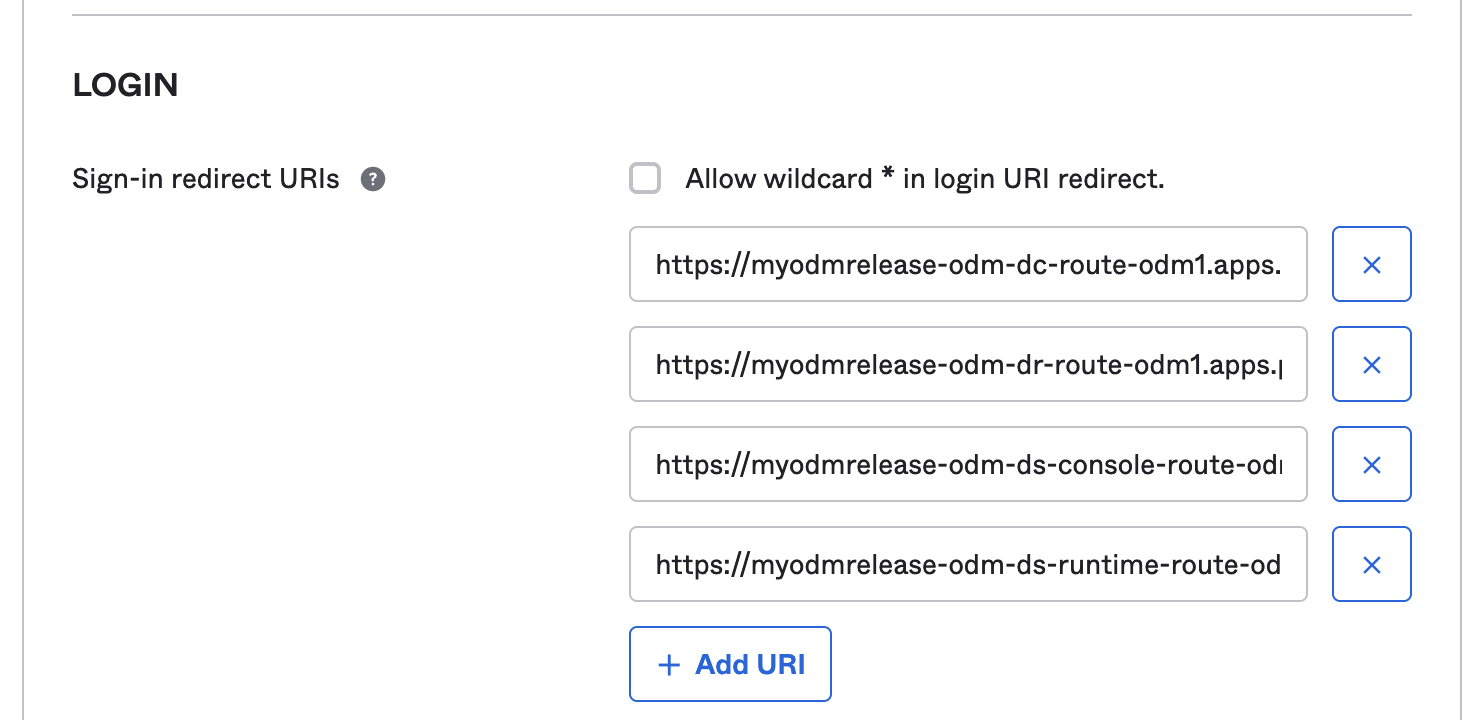
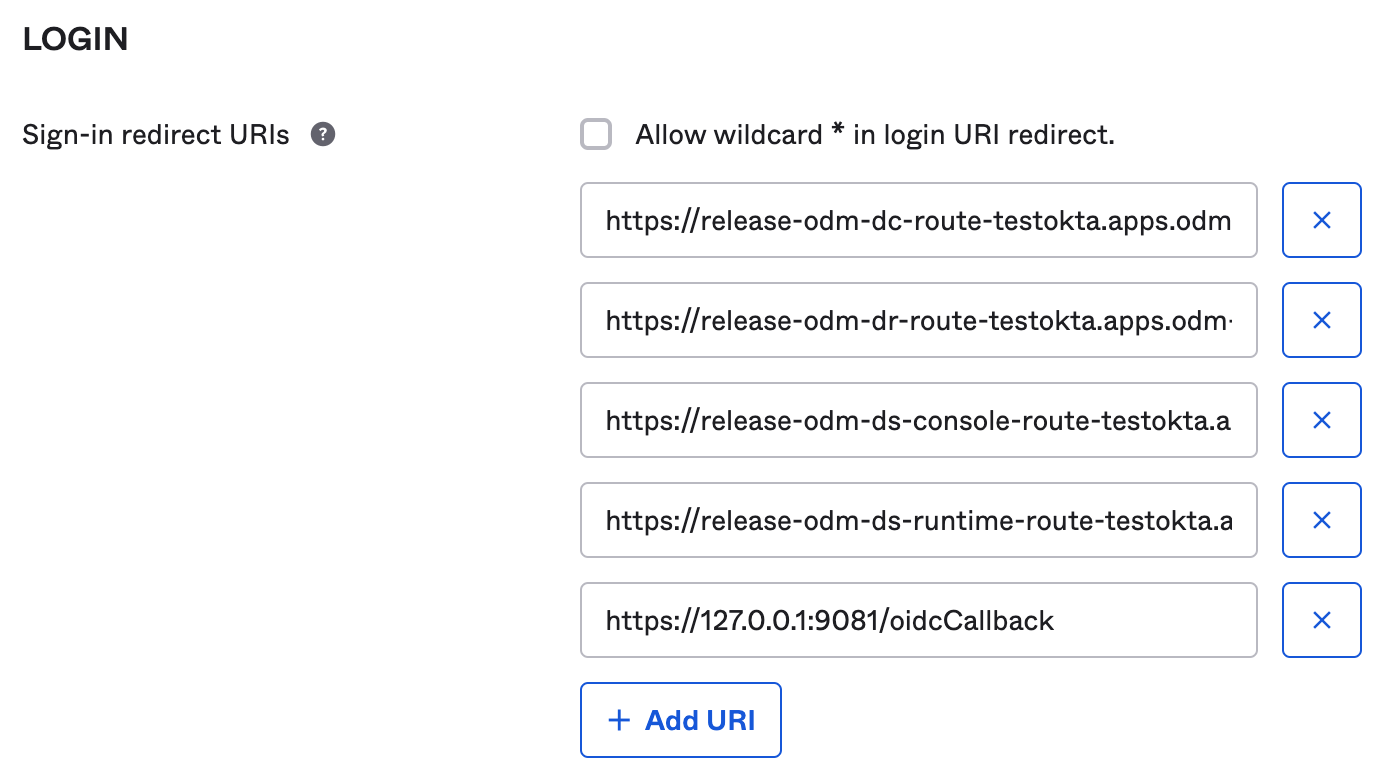
Add rule designer registration URL + Rule designer configuration

diff --git a/authentication/Okta/README.md b/authentication/Okta/README.md
@@ -20,6 +20,8 @@
     - [Create the ODM Okta secret:](#create-the-odm-okta-secret)
   - [Install your ODM Helm release](#install-your-odm-helm-release)
   - [Register the ODM redirect URL](#register-the-odm-redirect-url)
+  - [Access the ODM services](#access-the-odm-services)
+  - [Setup Rule Designer](#setup-rule-designer)
 - [License](#license)
 <!-- /TOC -->
 
@@ -349,24 +351,56 @@ release-odm-ds-runtime-route   release-odm-ds-runtime-route-odm1.apps.pylocp49.c
 The redirect URIs are built this way:
 
 - Decision Center redirect URI:  https://<DC_HOST>/decisioncenter/openid/redirect/odm
-- Decision Runtime redirect URI:  https://<DR_HOST/DecisionRunner/openid/redirect/odm
+- Decision Runner redirect URI:  https://<DR_HOST/DecisionRunner/openid/redirect/odm
 - Decision Server Console redirect URI:  https://<DS_CONSOLE_HOST>/res/openid/redirect/odm
 - Decision Server Runtime redirect URI:  https://<DS_RUNTIME_HOST>/DecisionService/openid/redirect/odm
+- Rule Designer redirect URI: https://127.0.0.1:9081/oidcCallback
 
+Where:
+   - DC_HOST: The Decision Center endpoint
+   - DR_HOST: The Decision Runner endpoint
+   - DC_CONSOLE_HOST: The Decision Server Console endpoint
+   - DS_RUNTIME_HOST: The Decision Server Runtime endpoint
+  
 You must register these endpoints into your Okta application:
 
 - Menu Applications / Applications
   - Select ODM Application.
   - On the General tab, click Edit on the General Settings section.
   - In the LOGIN section, click on + Add URI in the Sign-in redirect URIs section and add the Decision Center redirect URI you got earlier (https://<DC_HOST>/decisioncenter/openid/redirect/odm -- don't forget to replace <DC_HOST> by your actual host name!)
-  - Repeat the previous step for all other three redirect URIs.
+  - Repeat the previous step for all other four redirect URIs.
   - Click Save at the bottom of the LOGIN section.
 
 ![Sign-in redirect URIs](/images/Okta/Sign-in_redirect_URIs.png)
 
-Well done!  You can now connect to ODM using the routes you got [earlier](#register-the-odm-redirect-url) and log in as an ODM admin with the account you created in [the first step](#manage-group-and-user).
+## Access the ODM services
+Well done!  You can now connect to ODM using the endpoints you got [earlier](#register-the-odm-redirect-url) and log in as an ODM admin with the account you created in [the first step](#manage-group-and-user).
 
 >Note:  Logout in ODM components using Okta authentication raises an error for the time being.  This is a known issue.  We recommend to use a private window in your browser to log in, so that logout is done just by closing this window.
+
+## Setup Rule Designer
+To be able to securely connect your Rule Designer to the Decision Server and Decision Center services that are running in Certified Kubernetes, you need to establish a TLS connection through a security certificate as well as the OpenID configuration.
+
+* Get the https://<DC_HOST>/decisioncenter/assets/truststore.jks file.
+* Get the https://<<DC_HOST>/odm/decisioncenter/assets/OdmOidcProvidersRD.json file.
+ Where DC_HOST is the Decision Center endpoint. 
+
+* Copy the truststore.jks and OdmOidcProvidersRD.json files to your Rule Designer installation directory next to the eclipse.ini file.
+* Add this properties setting at the end of your eclipse.ini file
+
+Edit your eclipse.ini file and add this following lines at the end:
+```
+-Djavax.net.ssl.trustStore=<ECLIPSEINITDIR>/truststore.jks
+-Djavax.net.ssl.trustStorePassword=changeit
+-Dcom.ibm.rules.authentication.oidcconfig=<ECLIPSEINITDIR>/OdmOidcProvidersRD.json
+```
+Where:
+   * changeit is the fixed password to be used for the default truststore.jks file.
+   * ECLIPSEINITDIR : The Rule Designer installation directory next to the eclipse.ini file
+Restart Rule Designer.
+
+
+https://www.ibm.com/docs/en/odm/8.11.0?topic=designer-importing-security-certificate-in-rule
 
 # License
 
